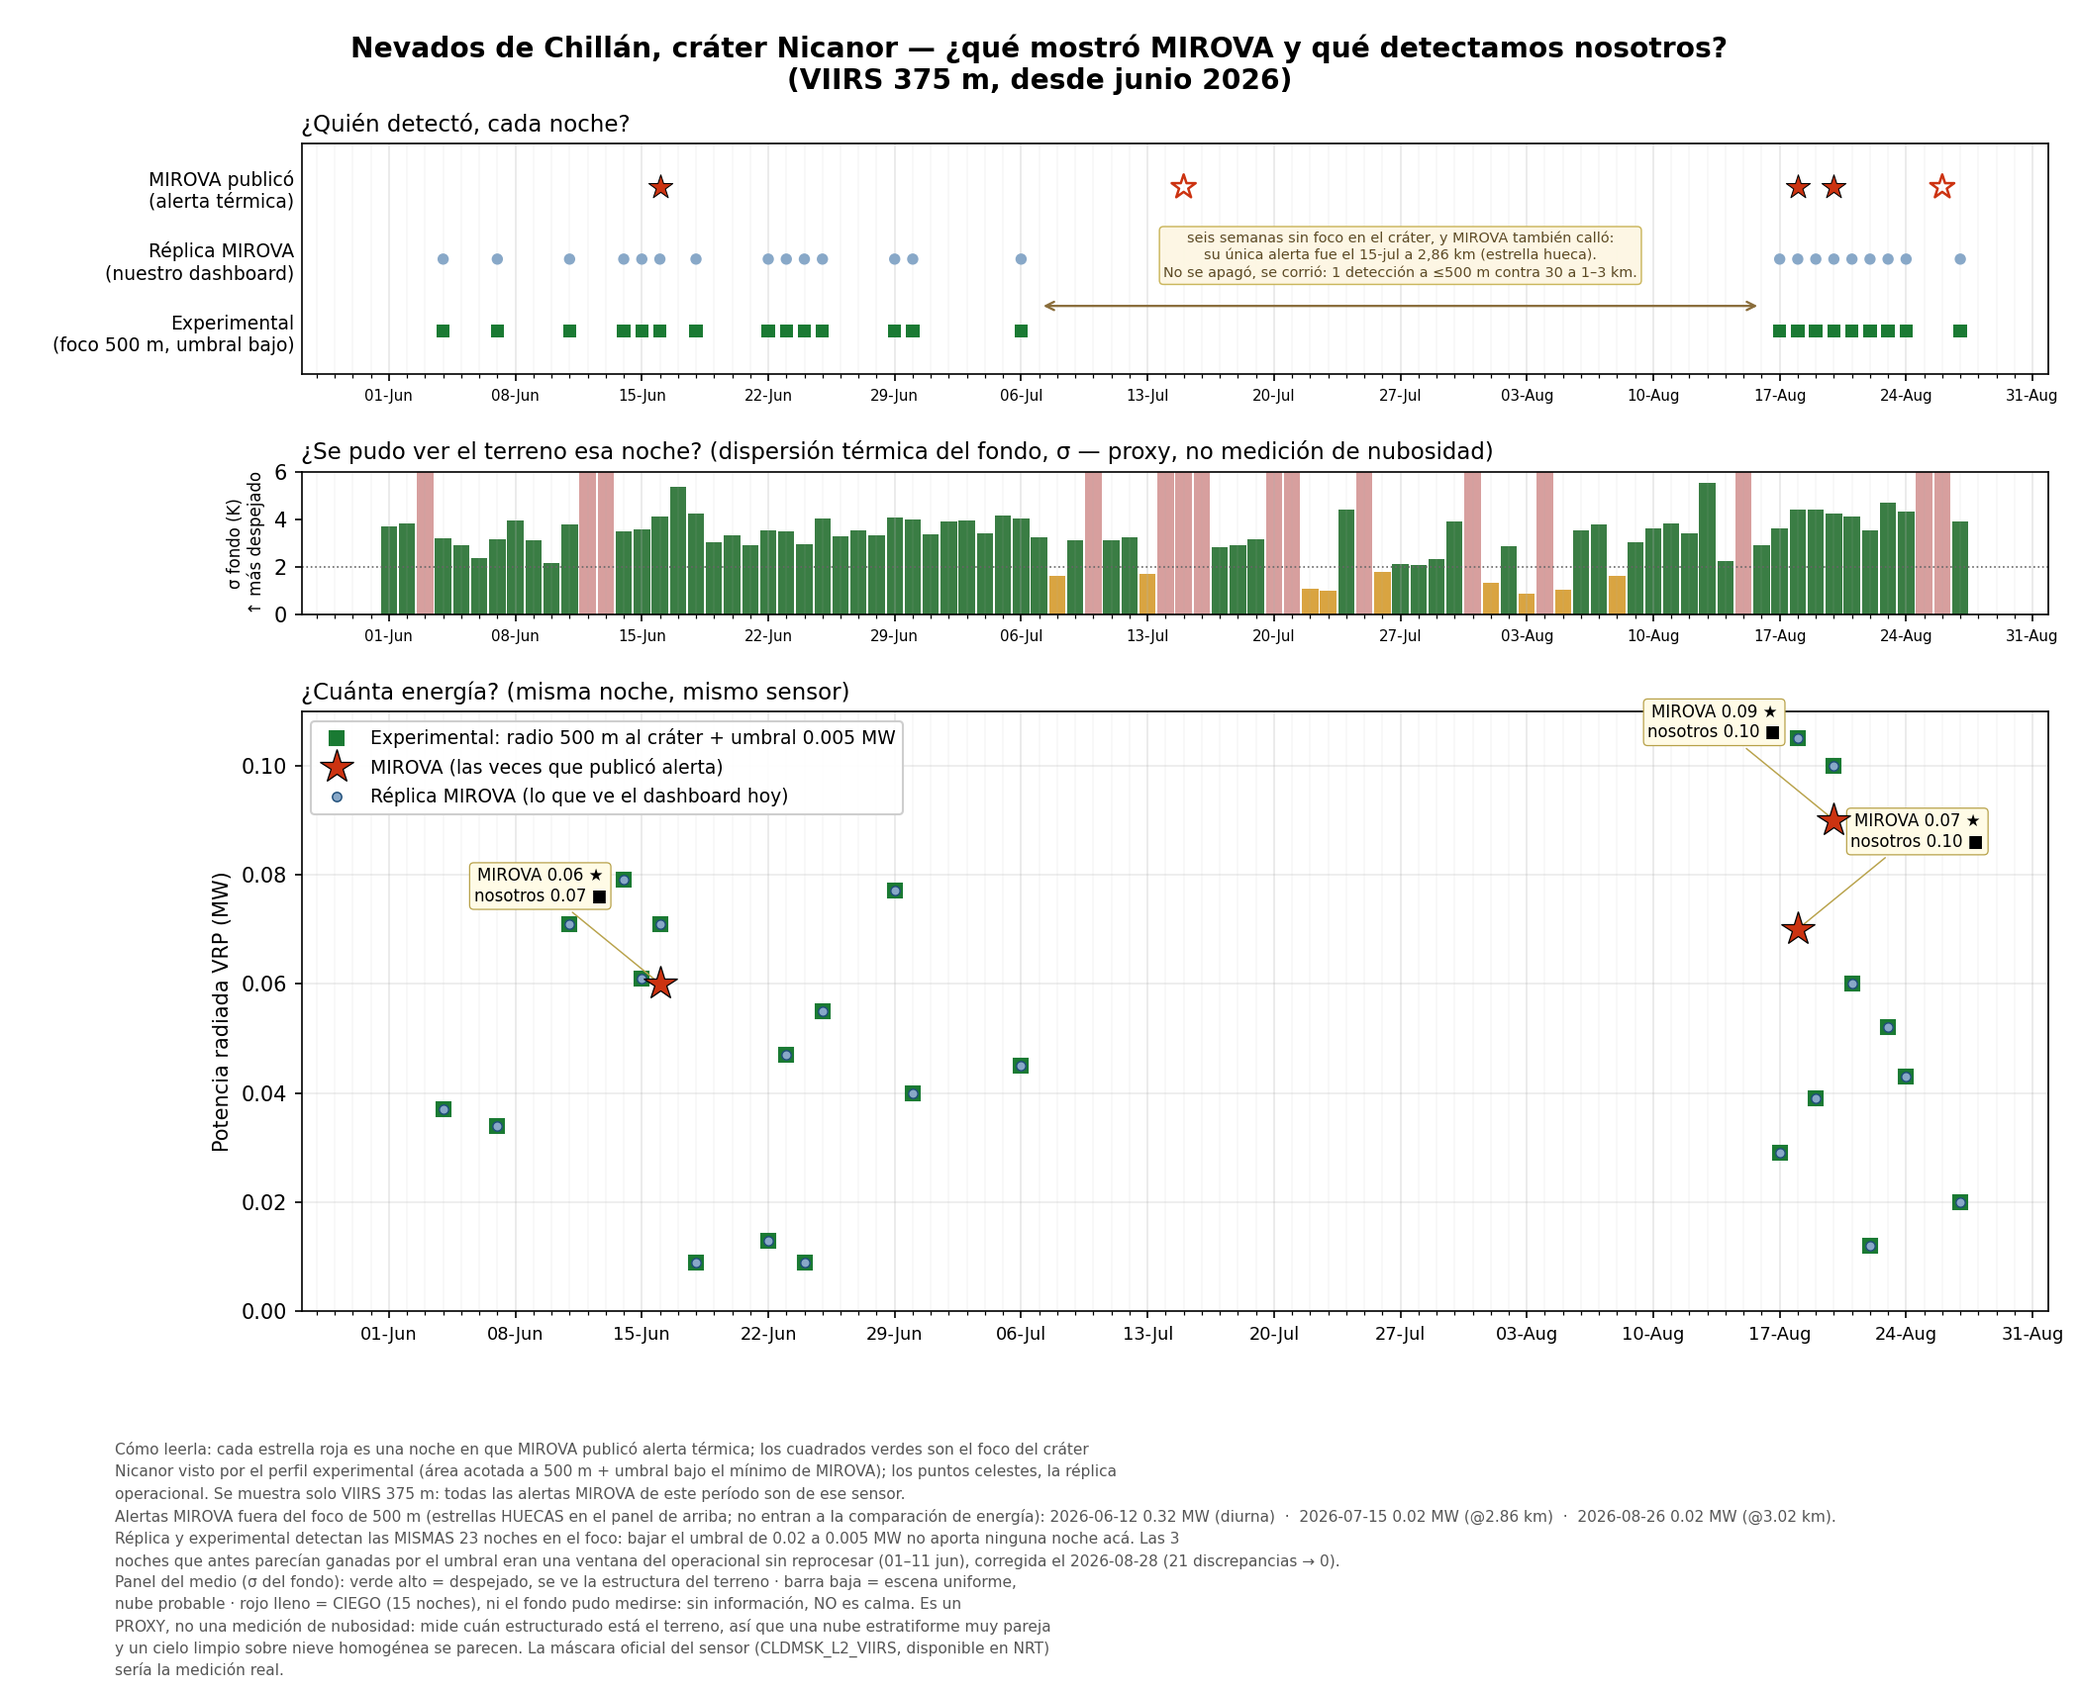
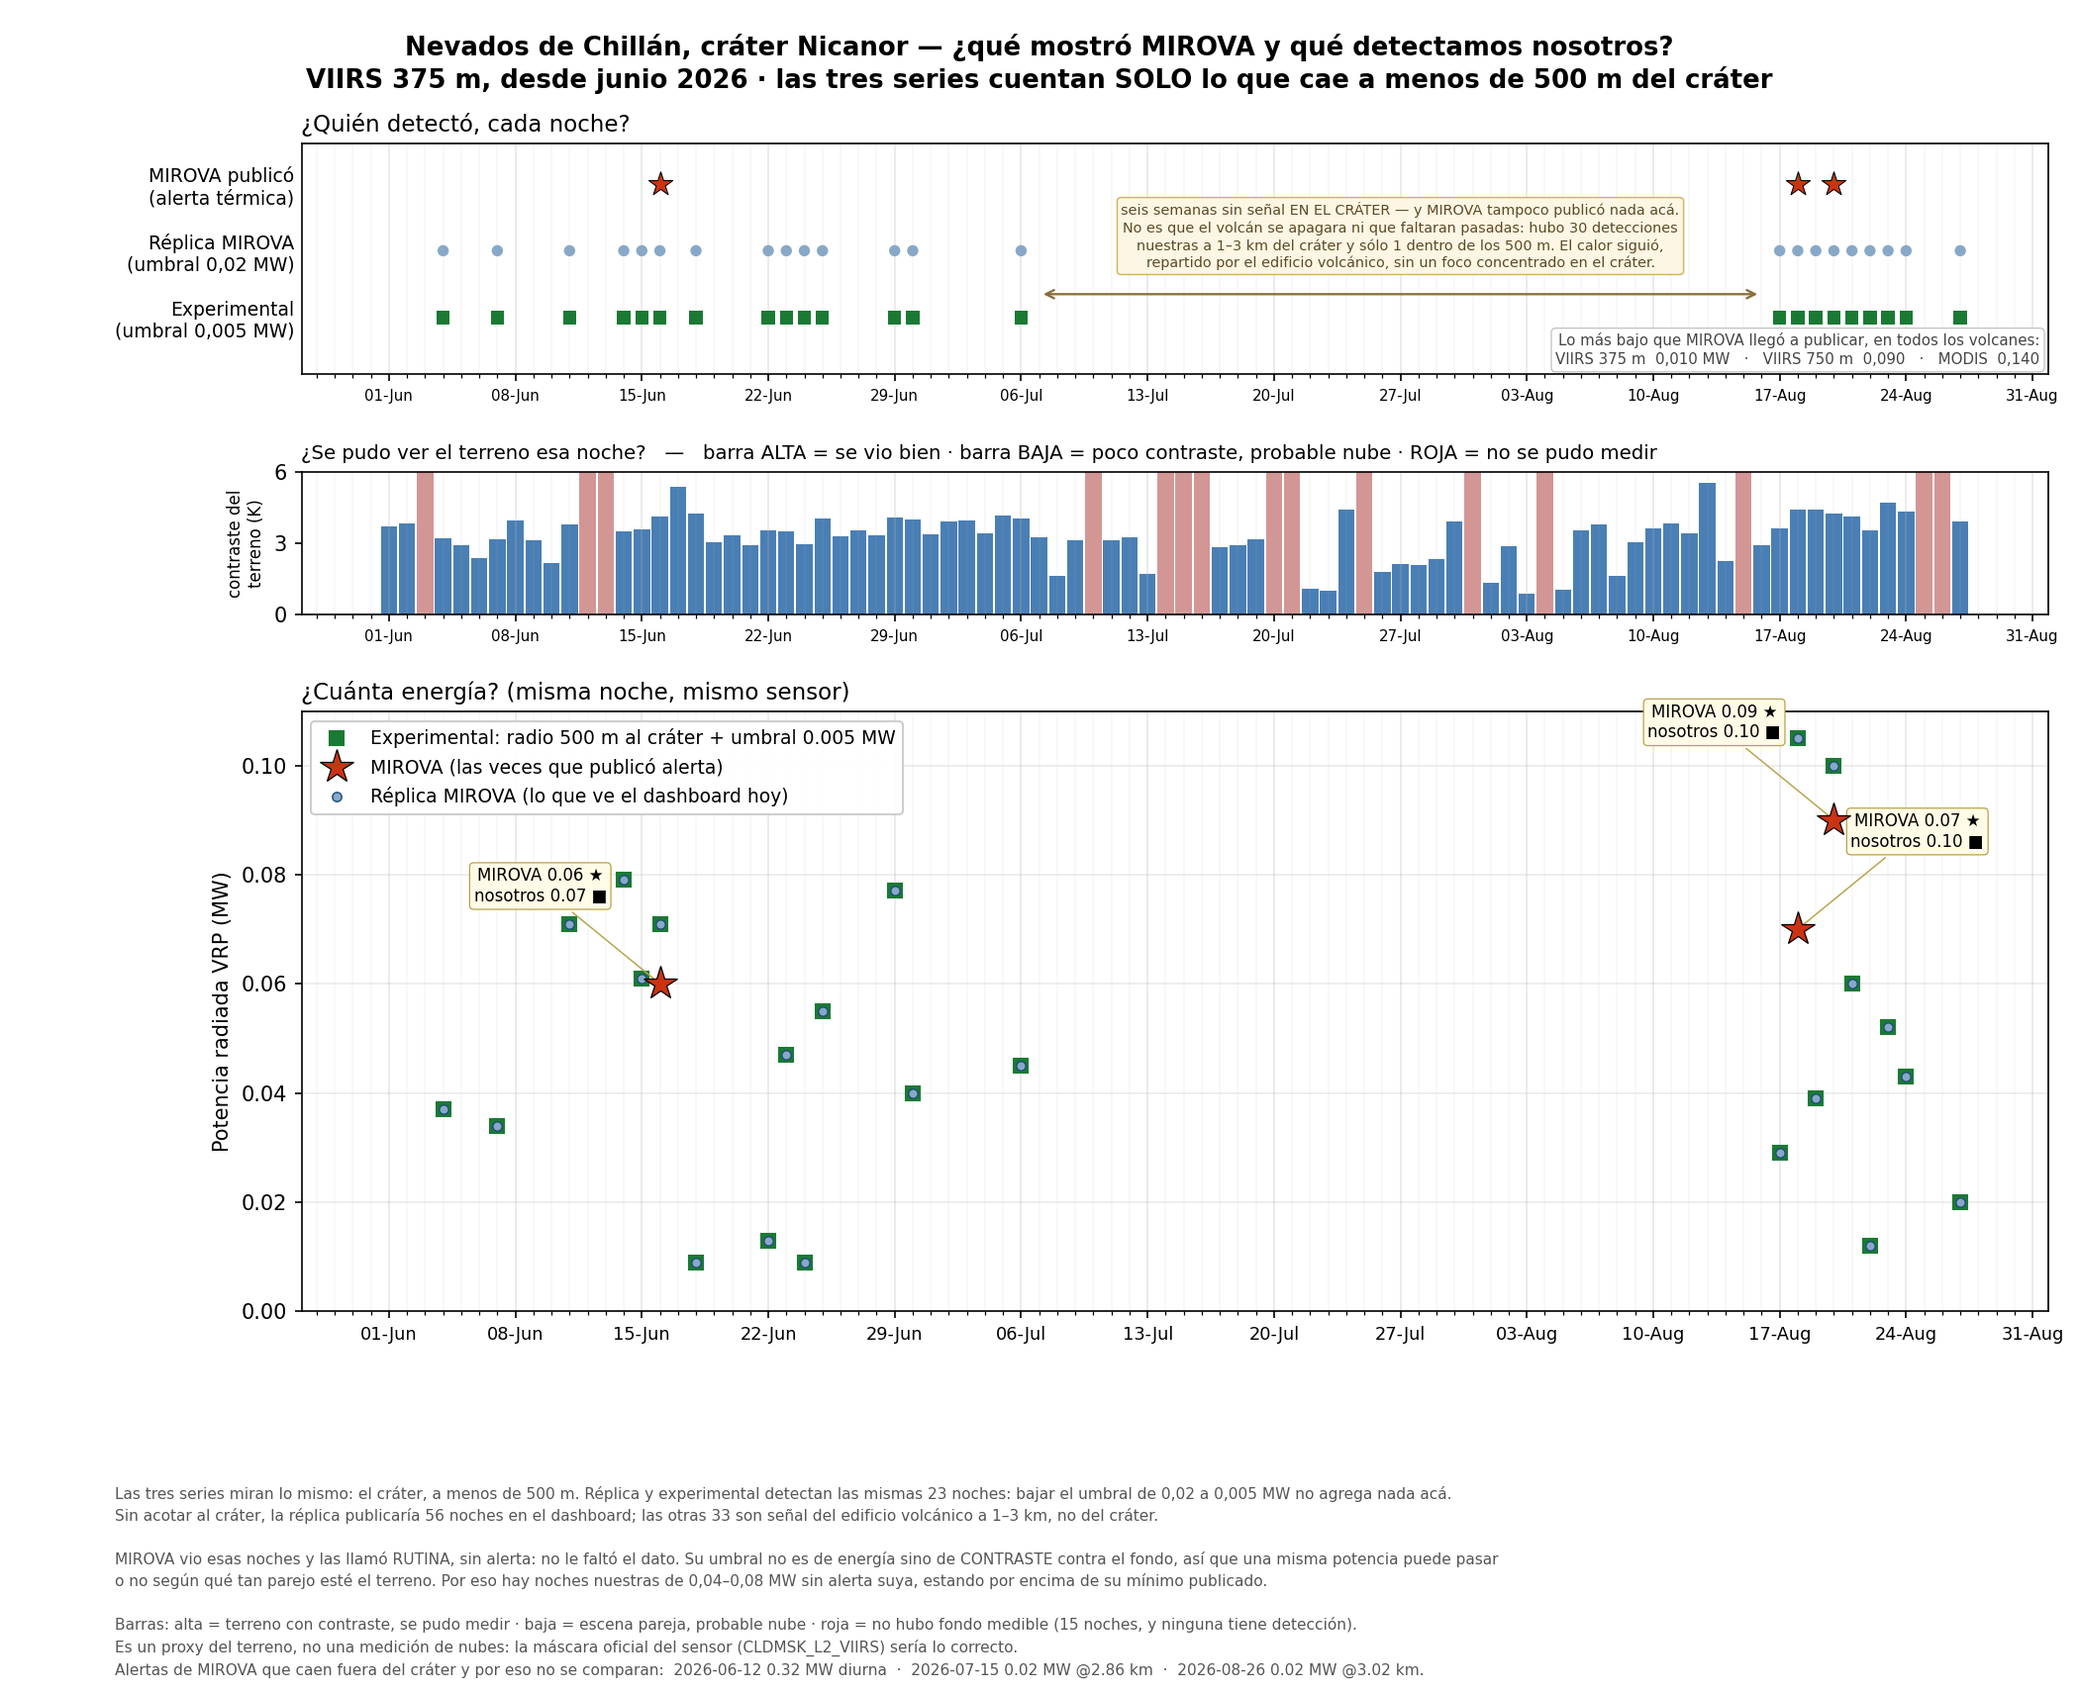
fig(s125): rehacer figuras de Chillan con el feedback de Nicolas
Ocho cambios, cada uno respondiendo una pregunta concreta:

1. El verde de las barras de nubosidad se confundia con los cuadrados verdes del
   experimental. Paleta AZUL, que no la usa ninguna serie de deteccion.
2. Un solo canal de informacion en esas barras: la ALTURA. Antes habia altura +
   color (verde/ambar segun un corte en 2 K), que obligaba a preguntarse como se
   combinan. El color ahora solo separa "se midio" (azul) de "no se pudo" (rojo).
3. El radio de 500 m estaba solo en el mapa. Ahora va en el TITULO de la serie.
4. Umbrales de MIROVA por sensor en el panel de deteccion, medidos sobre el
   consolidado COMPLETO (todos los volcanes): VIIRS375 0,010 MW · VIIRS750 0,090
   · MODIS 0,140. El piso es practicamente el mismo en los 9 volcanes con n>=5
   (0,010-0,050 en VIIRS375), asi que NO es un ajuste por volcan.
5. Fuera las estrellas huecas: no aportaban y agregaban un simbolo mas que
   descifrar. Las alertas lejanas siguen listadas al pie.
6. Las etiquetas de fila dicen el UMBRAL de cada serie (0,005 vs 0,02 MW), que es
   la variable del experimento, en vez de repetir el radio que ya esta en el titulo.
7. Nota al pie reescrita: de 9 lineas de metodologia a 3 respuestas concretas.
8. La anotacion del hueco explica que el calor NO desaparecio: se repartio por el
   edificio (30 detecciones a 1-3 km contra 1 dentro de 500 m).

VERIFICACIONES que respaldan el texto nuevo (ninguna transcrita a mano):
[…]

diff --git a/experiments/_s124_ndc_focus/plot_simple.py b/experiments/_s124_ndc_focus/plot_simple.py
@@ -116,6 +116,7 @@ PASADAS_COMUNES = (_claves("data/mirova_equivalent/NevadosDeChillan.json")
 
 # ── Réplica operacional: VIIRS375, filtro del dashboard ─────────────────────
 replica = {}
+replica_sin_radio = {}   # lo que el dashboard publica sin acotar al crater
 d = json.loads((ROOT / "data/mirova_equivalent/NevadosDeChillan.json").read_text(encoding="utf-8"))
 for r in d["records"]:
     f = (r.get("datetime_utc") or "")[:10]
@@ -135,6 +136,11 @@ for r in d["records"]:
     # sus 135 detecciones, 96 caían a 2-4 km del cráter (S124). Con el radio
     # igualado la única diferencia que queda entre las dos series es el umbral,
     # que es la variable del experimento.
+    # FEEDBACK NICOLAS (S125): "¿la replica mostro esos valores sin necesidad del
+    # radio, o esos datos fueron filtrados?" — SI estan filtrados, y hay que
+    # decirlo. `replica_sin_radio` es lo que el dashboard publica de verdad un dia
+    # normal (solo el gate `distance_class == summit`, sin recorte al crater).
+    replica_sin_radio[f] = max(replica_sin_radio.get(f, 0), v)
     if pc.get("centroid_lat") is None:
         continue
     if hav(NIC[0], NIC[1], pc["centroid_lat"], pc["centroid_lon"]) > FOCO_KM:
@@ -214,27 +220,37 @@ fig, (axA, axC, axB) = plt.subplots(
     3, 1, figsize=(14, 11.4), sharex=True,
     gridspec_kw={"height_ratios": [1, 0.62, 2.6], "hspace": 0.30})
 fig.suptitle("Nevados de Chillán, cráter Nicanor — ¿qué mostró MIROVA y qué detectamos nosotros?\n"
-             "(VIIRS 375 m, desde junio 2026)", fontsize=13.5, fontweight="bold")
+             f"VIIRS 375 m, desde junio 2026 · las tres series cuentan SOLO lo que cae a menos de "
+             f"{FOCO_KM*1000:.0f} m del cráter", fontsize=12.5, fontweight="bold")
 
 C_MIR, C_REP, C_FOC = "#cc3311", "#88a8c8", "#1a7a33"
 
 # Panel A — quién detectó cada noche
 axA.set_title("¿Quién detectó, cada noche?", loc="left", fontsize=11)
+# FEEDBACK NICOLAS (S125): "poner los umbrales de cada sensor, que tan bajo lee
+# MIROVA". Medido sobre el consolidado COMPLETO (todos los volcanes, todas las
+# alertas con VRP>0): el piso es practicamente el mismo en los 9 volcanes con
+# n>=5 (0,010 a 0,050 MW en VIIRS375), asi que no es un ajuste por volcan.
+axA.text(0.9955, 0.03,
+         "Lo más bajo que MIROVA llegó a publicar, en todos los volcanes:\n"
+         "VIIRS 375 m  0,010 MW   ·   VIIRS 750 m  0,090   ·   MODIS  0,140",
+         transform=axA.transAxes, ha="right", va="bottom", fontsize=7.2,
+         color="#444", linespacing=1.35, zorder=6,
+         bbox=dict(boxstyle="round,pad=0.3", fc="white", ec="#bbb", lw=0.6, alpha=0.93))
 for y, (serie, color, marker, size) in enumerate([
         (foco,    C_FOC, "s", 42),
         (replica, C_REP, "o", 30),
         (mirova,  C_MIR, "*", 150)]):
     axA.scatter(dts(serie), [y] * len(serie), c=color, marker=marker, s=size,
                 edgecolors="k" if marker == "*" else "none", linewidths=0.5, zorder=3)
-# estrellas HUECAS: MIROVA publico esa noche, pero lejos del crater (fuera del foco)
-if mirova_lejanas:
-    axA.scatter(dts(mirova_lejanas), [2] * len(mirova_lejanas), facecolors="none",
-                edgecolors=C_MIR, marker="*", s=150, linewidths=1.2, zorder=3)
+# FEEDBACK NICOLAS (S125): las estrellas huecas (alertas de MIROVA fuera del
+# foco) no aportaban al analisis y agregaban un simbolo mas que descifrar. Se
+# quitan del grafico; siguen listadas en la nota al pie.
 axA.set_yticks([0, 1, 2])
-axA.set_yticklabels([f"Experimental\n(foco {FOCO_KM*1000:.0f} m, umbral bajo)",
-                     "Réplica MIROVA\n(nuestro dashboard)",
+axA.set_yticklabels(["Experimental\n(umbral 0,005 MW)",
+                     "Réplica MIROVA\n(umbral 0,02 MW)",
                      "MIROVA publicó\n(alerta térmica)"], fontsize=9)
-axA.set_ylim(-0.6, 2.6)
+axA.set_ylim(-0.85, 2.6)
 axA.grid(True, axis="x", alpha=0.25)
 axA.tick_params(axis="y", length=0)
 
@@ -252,10 +268,11 @@ if NO_COMPARABLE is not None:
 _h0, _h1 = datetime.fromisoformat("2026-07-07"), datetime.fromisoformat("2026-08-16")
 axA.annotate("", xy=(_h0, 0.35), xytext=(_h1, 0.35),
              arrowprops=dict(arrowstyle="<->", color="#8a6d3b", lw=1.1))
-axA.text(_h0 + (_h1 - _h0) / 2, 1.05,
-         "seis semanas sin foco en el cráter, y MIROVA también calló:\n"
-         "su única alerta fue el 15-jul a 2,86 km (estrella hueca).\n"
-         "No se apagó, se corrió: 1 detección a ≤500 m contra 30 a 1–3 km.",
+axA.text(_h0 + (_h1 - _h0) / 2, 1.22,
+         "seis semanas sin señal EN EL CRÁTER — y MIROVA tampoco publicó nada acá.\n"
+         "No es que el volcán se apagara ni que faltaran pasadas: hubo 30 detecciones\n"
+         "nuestras a 1–3 km del cráter y sólo 1 dentro de los 500 m. El calor siguió,\n"
+         "repartido por el edificio volcánico, sin un foco concentrado en el cráter.",
          ha="center", va="center", fontsize=6.9, color="#5c4a25", linespacing=1.3,
          zorder=6,
          bbox=dict(boxstyle="round,pad=0.28", fc="#fdf6e3", ec="#c9b458", lw=0.7, alpha=0.96))
@@ -268,27 +285,27 @@ _oy = [despejado[f] for f in _of]
 # justo las que hay que ver. Se dibujan a altura completa en rojo — la franja
 # llena significa "acá no sabemos", no "acá hubo mucha señal".
 _ciego = [v <= 0.01 for v in _oy]
+# FEEDBACK NICOLAS (S125): el verde de estas barras se confundia con los cuadrados
+# verdes del experimental en el panel de arriba — dos cosas distintas del mismo
+# color. Paleta AZUL, que no se usa para ninguna serie de deteccion.
+# Y UN SOLO canal de informacion: la ALTURA. Antes habia altura + color (verde
+# vs ambar segun un corte en 2 K), que obligaba a preguntarse como se combinan.
+# Ahora el color solo distingue "se midio" (azul) de "no se pudo medir" (rojo).
 axC.bar([x for x, c in zip(_ox, _ciego) if c], [6.0] * sum(_ciego),
-        width=0.9, color="#b0413e", alpha=0.5, linewidth=0)
-_col = ["#d9a441" if v < 2.0 else "#3a7d44" for v in _oy]
+        width=0.9, color="#b0413e", alpha=0.55, linewidth=0)
 axC.bar([x for x, c in zip(_ox, _ciego) if not c],
         [v for v, c in zip(_oy, _ciego) if not c],
-        width=0.9, color=[c for c, cc in zip(_col, _ciego) if not cc], linewidth=0)
-axC.axhline(2.0, color="#666", lw=0.8, ls=":")
+        width=0.9, color="#4a7fb5", linewidth=0)
 axC.set_ylim(0, 6)
-axC.set_yticks([0, 2, 4, 6])
-axC.set_ylabel("σ fondo (K)\n↑ más despejado", fontsize=8)
+axC.set_yticks([0, 3, 6])
+axC.set_ylabel("contraste del\nterreno (K)", fontsize=8)
 axC.grid(True, axis="x", alpha=0.25)
-axC.set_title("¿Se pudo ver el terreno esa noche? (dispersión térmica del fondo, σ — proxy, no medición de nubosidad)",
-              loc="left", fontsize=11)
+axC.set_title("¿Se pudo ver el terreno esa noche?   —   barra ALTA = se vio bien · barra BAJA = poco contraste, "
+              "probable nube · ROJA = no se pudo medir",
+              loc="left", fontsize=9.5)
 # AUDIT S125: esta leyenda estaba DENTRO del panel y tapaba las barras rojas de
 # julio-agosto, que son justo las que hay que ver. Baja a la nota al pie.
-_leyenda_C = (
-    "Panel del medio (σ del fondo): verde alto = despejado, se ve la estructura del terreno · barra baja = escena uniforme,\n"
-    f"nube probable · rojo lleno = CIEGO ({sum(_ciego)} noches), ni el fondo pudo medirse: sin información, NO es calma. Es un\n"
-    "PROXY, no una medición de nubosidad: mide cuán estructurado está el terreno, así que una nube estratiforme muy pareja\n"
-    "y un cielo limpio sobre nieve homogénea se parecen. La máscara oficial del sensor (CLDMSK_L2_VIIRS, disponible en NRT)\n"
-    "sería la medición real.")
+# (_leyenda_C se eliminó en S125: su contenido pasó a la nota al pie, reescrita)
 
 # Panel B — cuánta energía
 axB.set_title("¿Cuánta energía? (misma noche, mismo sensor)", loc="left", fontsize=11)
@@ -329,26 +346,25 @@ for _ax in (axA, axC, axB):
     _ax.tick_params(axis="x", labelbottom=True, labelsize=7.2)
 plt.setp(axB.get_xticklabels(), rotation=0, fontsize=8.5)
 
-nota = ("Cómo leerla: cada estrella roja es una noche en que MIROVA publicó alerta térmica; los cuadrados verdes son el foco del cráter\n"
-        "Nicanor visto por el perfil experimental (área acotada a 500 m + umbral bajo el mínimo de MIROVA); los puntos celestes, la réplica\n"
-        "operacional. Se muestra solo VIIRS 375 m: todas las alertas MIROVA de este período son de ese sensor.")
-if fin_exp < "2026-08-27":
-    nota += ("\nCobertura del experimental hasta el " + fin_exp + ": después solo hay réplica y MIROVA "
-             "(reproceso en curso). Paneles restringidos a pasadas que AMBAS corridas procesaron.")
+# ── Nota al pie — REESCRITA S125 con el feedback de Nicolas ────────────────
+# Antes eran 9 lineas con la metodologia entera. Ahora responde 3 preguntas
+# concretas, en su orden natural, y la metodologia queda en los comentarios.
+_n_sin_radio = len(replica_sin_radio)
+nota = (
+    f"Las tres series miran lo mismo: el cráter, a menos de {FOCO_KM*1000:.0f} m. Réplica y experimental detectan las mismas "
+    f"{len(replica)} noches: bajar el umbral de 0,02 a 0,005 MW no agrega nada acá.\n"
+    f"Sin acotar al cráter, la réplica publicaría {_n_sin_radio} noches en el dashboard; las otras "
+    f"{_n_sin_radio - len(replica)} son señal del edificio volcánico a 1–3 km, no del cráter.\n\n"
+    "MIROVA vio esas noches y las llamó RUTINA, sin alerta: no le faltó el dato. Su umbral no es de energía sino de CONTRASTE contra el fondo, "
+    "así que una misma potencia puede pasar\n"
+    "o no según qué tan parejo esté el terreno. Por eso hay noches nuestras de 0,04–0,08 MW sin alerta suya, estando por encima de su mínimo publicado.\n\n"
+    "Barras: alta = terreno con contraste, se pudo medir · baja = escena pareja, probable nube · "
+    f"roja = no hubo fondo medible ({sum(_ciego)} noches, y ninguna tiene detección).\n"
+    "Es un proxy del terreno, no una medición de nubes: la máscara oficial del sensor (CLDMSK_L2_VIIRS) sería lo correcto."
+)
 if mirova_excluidas:
-    _exc = "  ·  ".join(x[0] + " " + format(x[1], ".2f") + " MW (" + x[3] + ")" for x in sorted(mirova_excluidas))
-    nota += ("\nAlertas MIROVA fuera del foco de 500 m (estrellas HUECAS en el panel de arriba; no entran a la comparación de energía): "
-             + _exc + ".")
-if NO_COMPARABLE is not None:
-    nota += ("\nFranja gris: la serie operacional ahí viene de una versión anterior del código, así que en esos días la "
-             "diferencia\nentre réplica y experimental NO es atribuible al umbral.")
-else:
-    # S125: el resultado que quedó al reprocesar el 01-11 jun con --overwrite.
-    # Antes parecía que el umbral bajo aportaba 3 noches; era version de codigo.
-    nota += (f"\nRéplica y experimental detectan las MISMAS {len(replica)} noches en el foco: bajar el umbral de 0.02 a "
-             "0.005 MW no aporta ninguna noche acá. Las 3\nnoches que antes parecían ganadas por el umbral eran una "
-             "ventana del operacional sin reprocesar (01–11 jun), corregida el 2026-08-28 (21 discrepancias → 0).")
-nota += "\n" + _leyenda_C
+    _exc = "  ·  ".join(x[0] + " " + format(x[1], ".2f") + " MW " + x[3] for x in sorted(mirova_excluidas))
+    nota += "\nAlertas de MIROVA que caen fuera del cráter y por eso no se comparan:  " + _exc + "."
 fig.text(0.055, 0.008, nota, fontsize=7.4, color="#555", va="bottom", linespacing=1.5)
 # AUDIT S125: tight_layout avisa 'Axes not compatible' por los axvspan/annotate
 # y deja el eje del panel B encima de la nota. Margenes explicitos en su lugar.
